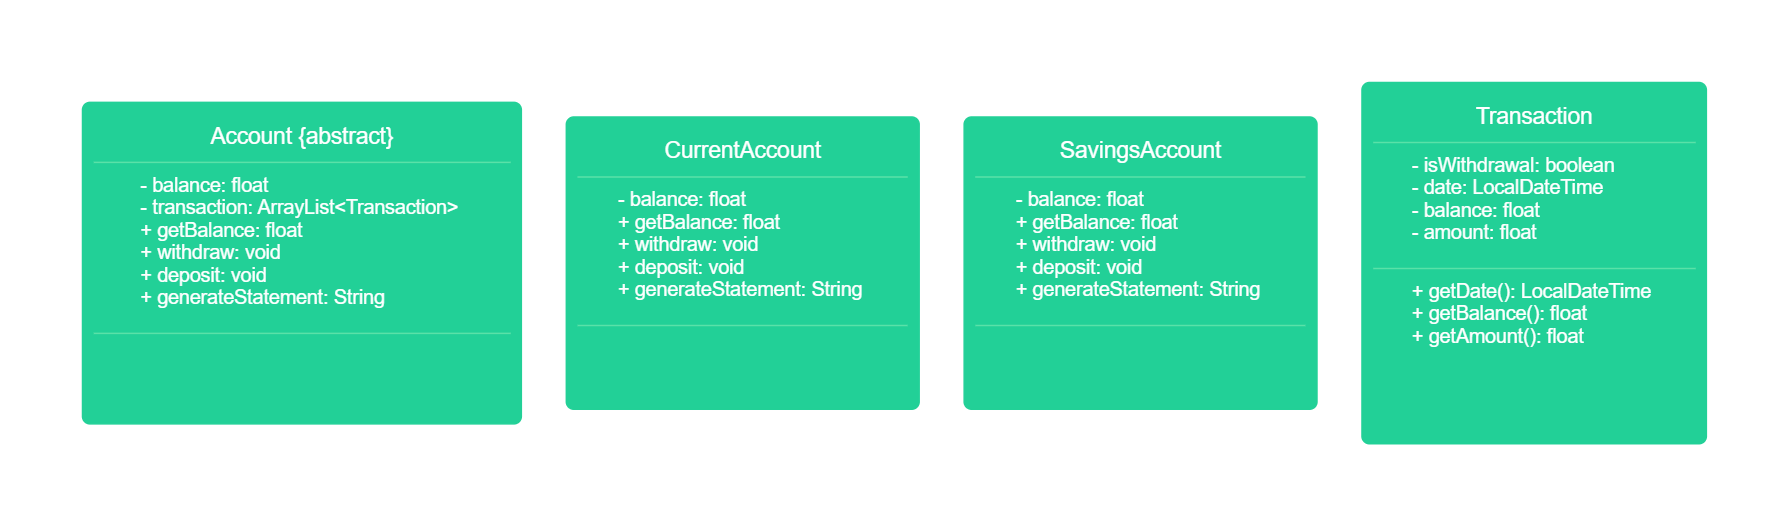
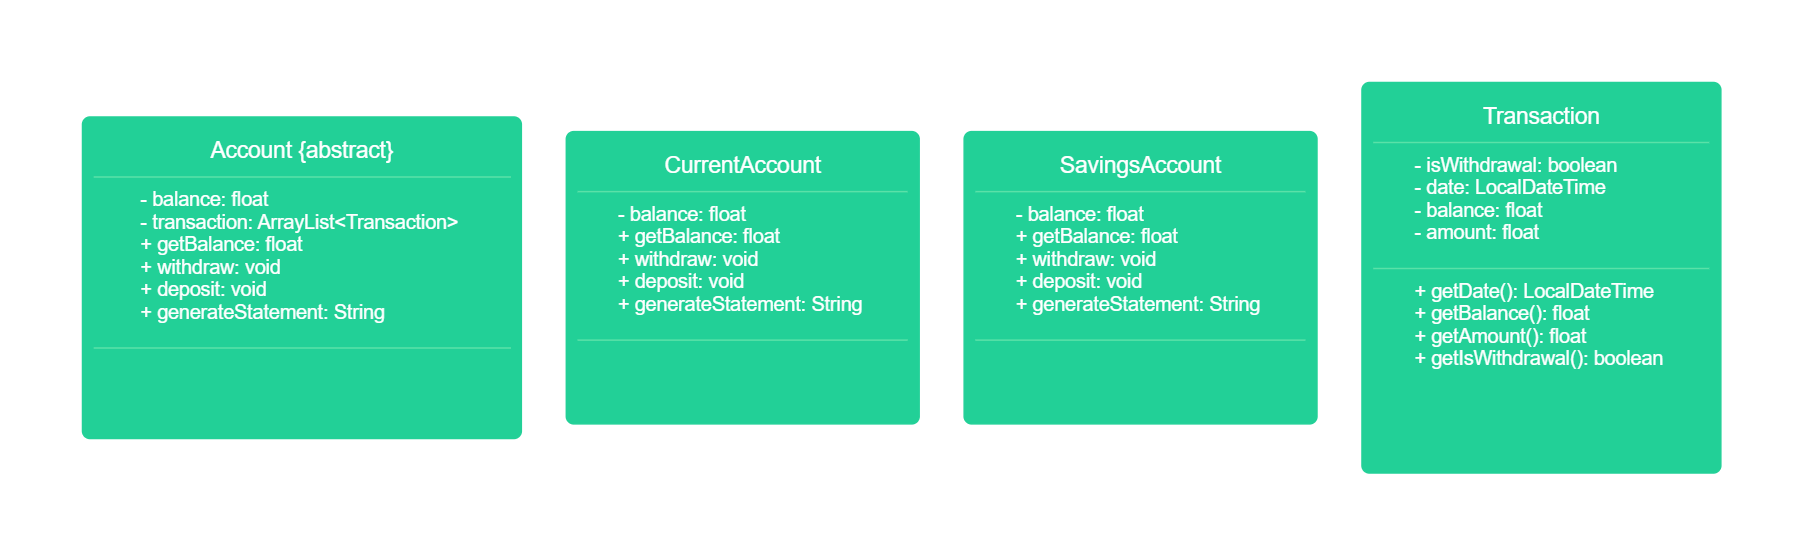
fix diagram and added Transaction file

Changed region(s): [[0.0308, 0.1217, 0.9536, 0.8821], [0.0308, 0.1825, 0.3076, 0.2129]]

diff --git a/src/main/java/com/booleanuk/core/Transaction.java b/src/main/java/com/booleanuk/core/Transaction.java
@@ -1,0 +1,34 @@
+package com.booleanuk.core;
+
+import java.time.LocalDateTime;
+
+public class Transaction {
+
+    private LocalDateTime time;
+    private float balance;
+    private float amount;
+    private boolean isWithdrawal;
+
+    public Transaction(boolean isWithdrawal, float balance, float amount, LocalDateTime time){
+        this.isWithdrawal = isWithdrawal;
+        this.balance = balance;
+        this.amount = amount;
+        this.time = time;
+    }
+
+    public boolean getIsWithdrawal(){
+        return this.isWithdrawal;
+    }
+
+    public float getBalance(){
+        return this.balance;
+    }
+
+    public float getAmount(){
+        return this.amount;
+    }
+
+    public LocalDateTime getTime(){
+        return this.time;
+    }
+}
